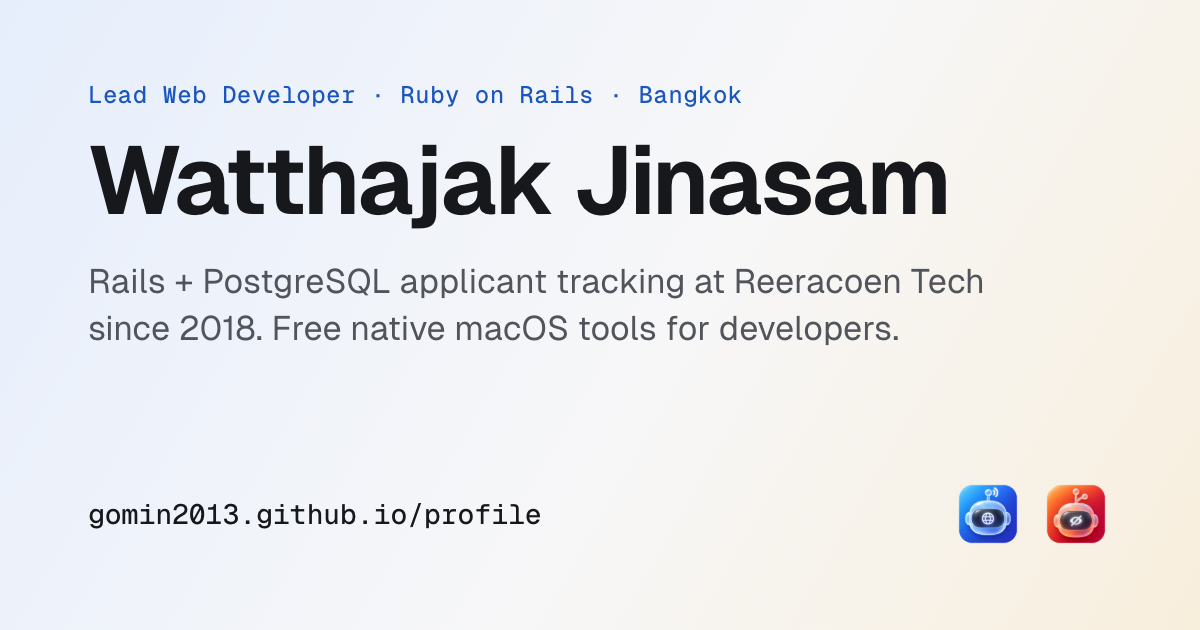
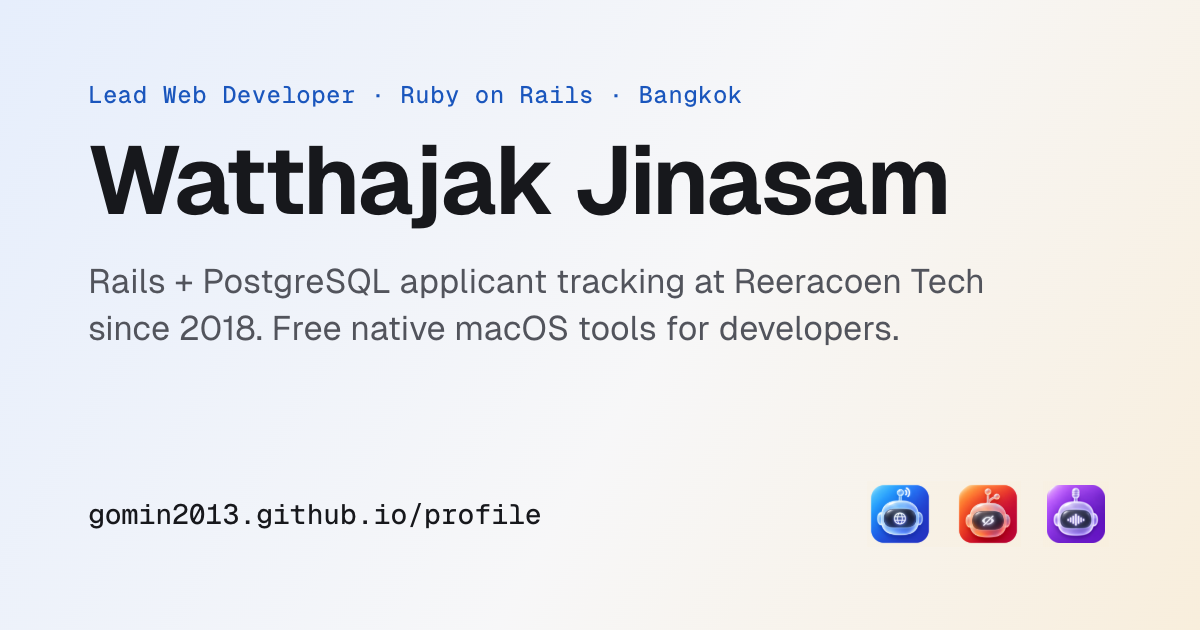
2026 Updated profile page.

Changed region(s): [[0.7092, 0.754, 0.925, 0.8746]]

diff --git a/docs/index.html b/docs/index.html
@@ -129,7 +129,7 @@
       <div class="wrap">
         <p class="eyebrow">Lead Web Developer · Ruby on Rails · Bangkok, Thailand</p>
         <h1>Watthajak Jinasam</h1>
-        <p class="lede"><span class="en">Lead web developer at Reeracoen Tech since 2018, building an in-house applicant tracking system with Ruby on Rails and PostgreSQL — recruitment workflows, dashboard analytics and SQL performance. I also build free, native macOS tools for developers.</span><span class="th">หัวหน้านักพัฒนาเว็บที่ Reeracoen Tech ตั้งแต่ปี 2018 พัฒนาระบบ ATS ภายในด้วย Ruby on Rails และ PostgreSQL ดูแล workflow การสรรหา dashboard วิเคราะห์ข้อมูล และประสิทธิภาพ SQL และสร้างแอป macOS ฟรีสำหรับนักพัฒนา</span></p>
+        <p class="lede"><span class="en">Lead web developer at Reeracoen Tech since 2018, building an in-house applicant tracking system with Ruby on Rails and PostgreSQL — recruitment workflows, dashboard analytics and SQL performance. I also build free, native macOS tools for developers and the Claude Code skills behind them.</span><span class="th">หัวหน้านักพัฒนาเว็บที่ Reeracoen Tech ตั้งแต่ปี 2018 พัฒนาระบบ ATS ภายในด้วย Ruby on Rails และ PostgreSQL ดูแล workflow การสรรหา dashboard วิเคราะห์ข้อมูล และประสิทธิภาพ SQL และสร้างแอป macOS ฟรีสำหรับนักพัฒนา พร้อม Claude Code skill ที่ดึงมาจากแอปเหล่านั้น</span></p>
         <p class="contact">
           <a href="mailto:gomin2013@hotmail.com"><i class="ph ph-envelope-simple" aria-hidden="true"></i>gomin2013@hotmail.com</a>
           <a href="https://github.com/gomin2013"><i class="ph ph-github-logo" aria-hidden="true"></i>github.com/gomin2013</a>
@@ -242,10 +242,11 @@
       <nav aria-label="Footer">
         <a href="/hosts-manager/" class="hide-sm">Hosts Manager</a>
         <a href="/git-exclude-manager/">Git Exclude Manager</a>
-        <a href="/">Gomin Apps</a>
+        <a href="/ai-voice-manager/">AI Voice Manager</a>
         <a href="/swiftui-mac-skills/">SwiftUI Mac Skills</a>
-        <a href="https://github.com/sponsors/gomin2013" target="_blank" rel="noopener"><span class="en">Sponsor</span><span class="th">สนับสนุน</span></a>
+        <a href="/profile/"><span class="en">Profile</span><span class="th">โปรไฟล์</span></a>
         <a href="https://github.com/gomin2013" target="_blank" rel="noopener">GitHub</a>
+        <a href="https://github.com/sponsors/gomin2013" target="_blank" rel="noopener"><span class="en">Sponsor</span><span class="th">สนับสนุน</span></a>
       </nav>
       <small>© 2026 Watthajak Jinasam</small>
     </div>

diff --git a/README.md b/README.md
@@ -35,3 +35,4 @@ cd ~/Documents/SwiftUI && mkdir -p /tmp/gomin-site && \
 | Gomin Apps (home) | [gomin2013.github.io](https://gomin2013.github.io/) | [gomin2013/gomin2013.github.io](https://github.com/gomin2013/gomin2013.github.io) |
 | Hosts Manager | [/hosts-manager/](https://gomin2013.github.io/hosts-manager/) | [gomin2013/hosts-manager](https://github.com/gomin2013/hosts-manager) |
 | Git Exclude Manager | [/git-exclude-manager/](https://gomin2013.github.io/git-exclude-manager/) | [gomin2013/git-exclude-manager](https://github.com/gomin2013/git-exclude-manager) |
+| AI Voice Manager | [/ai-voice-manager/](https://gomin2013.github.io/ai-voice-manager/) | [gomin2013/ai-voice-manager](https://github.com/gomin2013/ai-voice-manager) |
